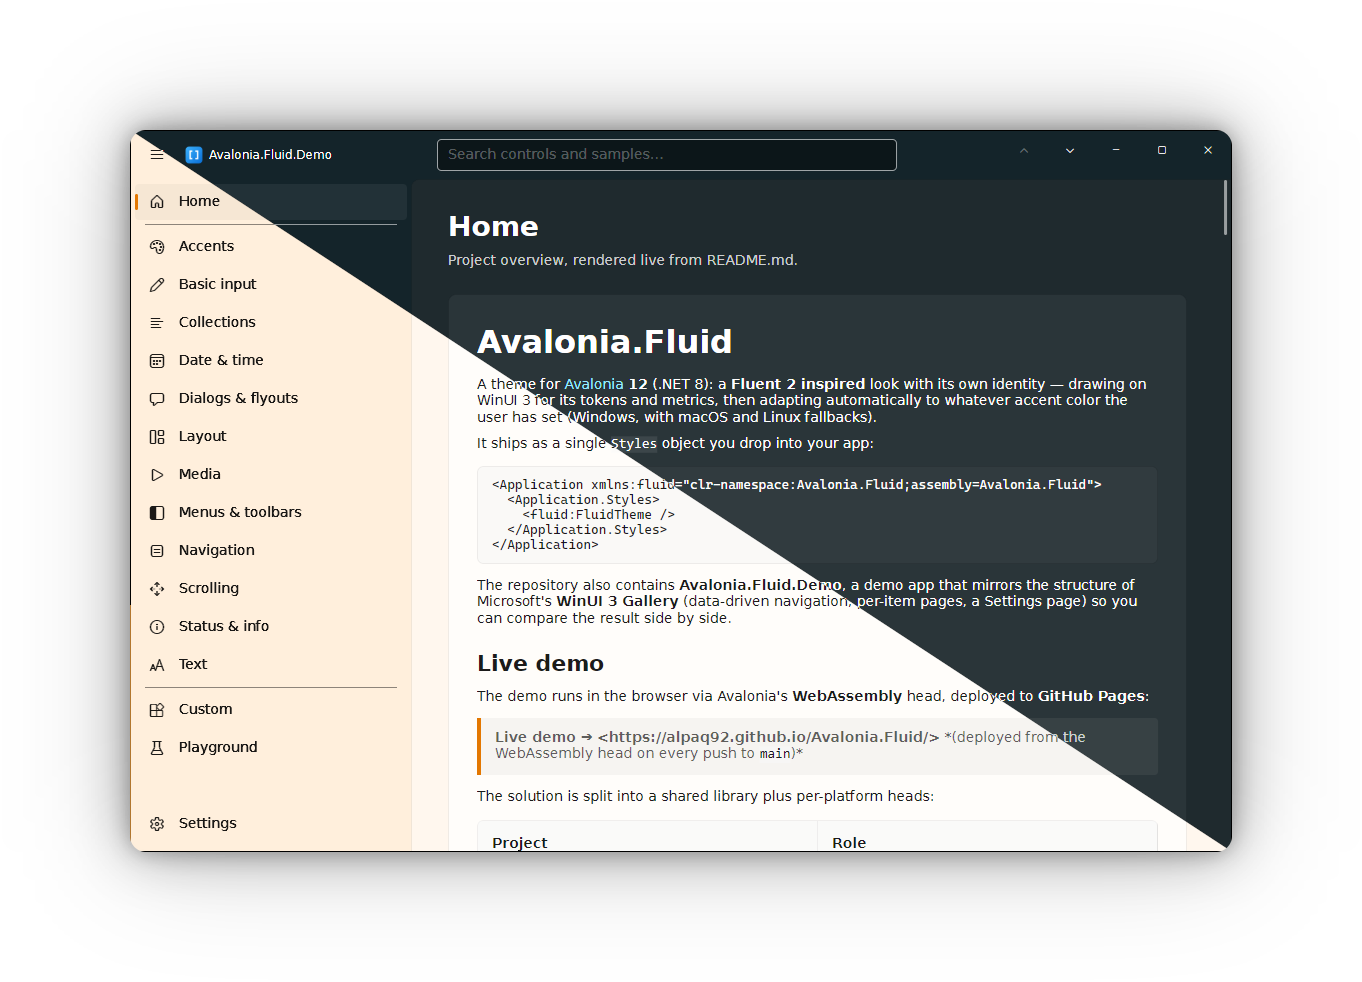
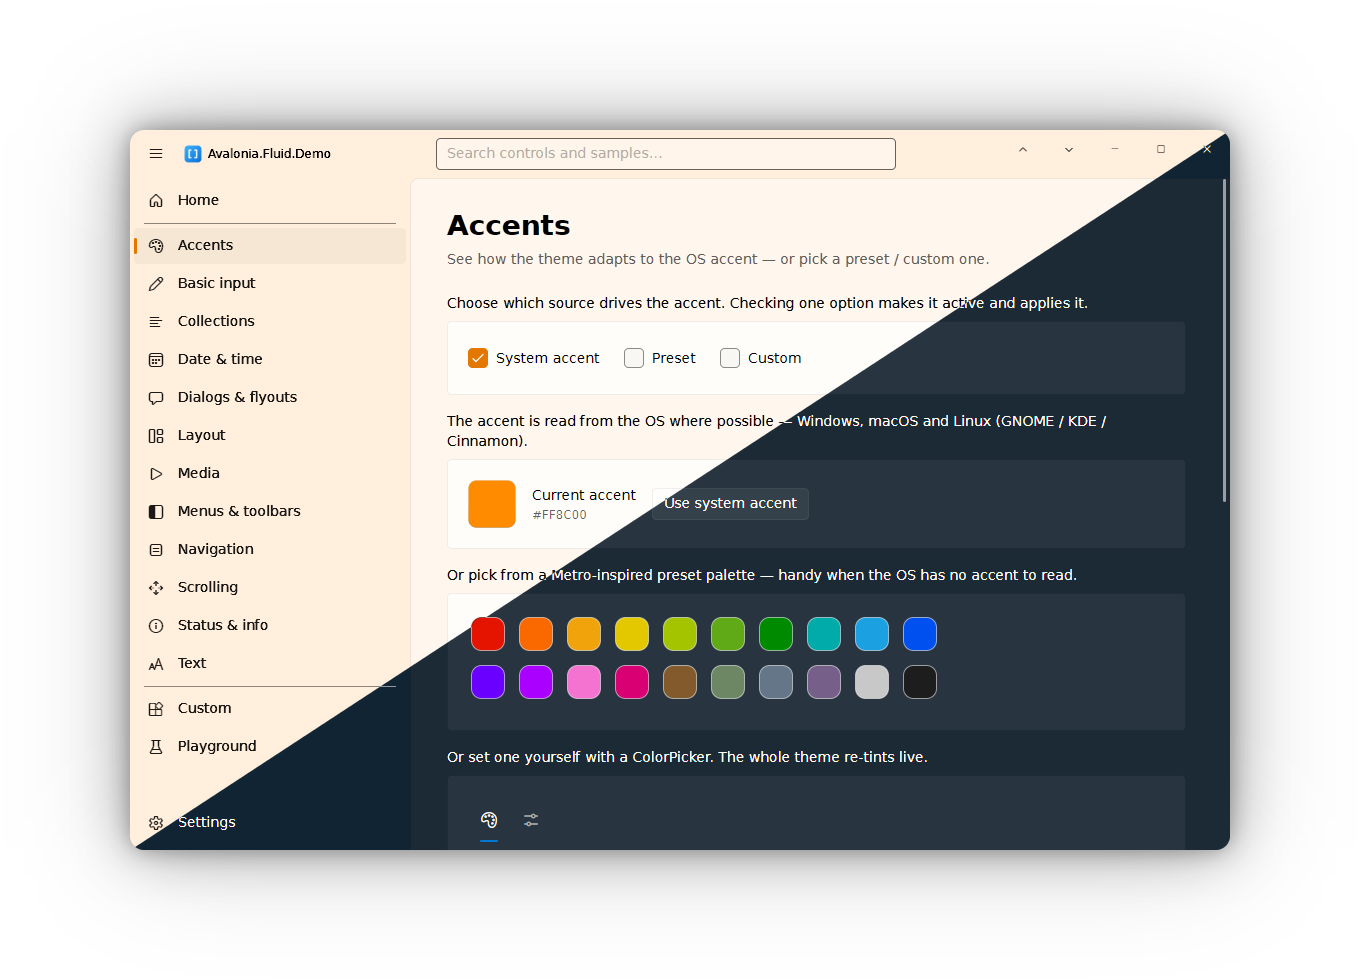
docs: refresh screenshot to the Accents page
Rebuild screenshot.png from fresh light/dark captures of the Accents page: a clean
diagonal light-over-dark split, the OS edge outline trimmed off, smooth 6x-supersampled
rounded corners (no jaggies), a soft ambient mist on a transparent canvas, kept
truecolor so the edges stay smooth. Update the README/NuGet alt text accordingly. Raw
shot-*.png sources are git-ignored.

diff --git a/README.md b/README.md
@@ -13,7 +13,7 @@ A theme for [Avalonia](https://avaloniaui.net/) **12** (.NET 8): a **Fluent 2 in
 its own identity — drawing on WinUI 3 for its tokens and metrics, then adapting automatically to
 whatever accent color the user has set (Windows, with macOS and Linux fallbacks).
 
-![Avalonia.Fluid — the demo's Home page, split diagonally between the light and dark themes](https://raw.githubusercontent.com/Alpaq92/Avalonia.Fluid/main/screenshot.png)
+![Avalonia.Fluid — the demo's Accents page, split diagonally between the light and dark themes](https://raw.githubusercontent.com/Alpaq92/Avalonia.Fluid/main/screenshot.png)
 
 It ships as a single `Styles` object you drop into your app:
 

diff --git a/nuget-readme.md b/nuget-readme.md
@@ -7,7 +7,7 @@
 
 A **Fluent 2 / WinUI 3-inspired theme for [Avalonia](https://github.com/AvaloniaUI/Avalonia)** with its own identity, adapting to your system accent color. Built on Avalonia's `FluentTheme` with ported Fluent 2 design tokens — lit-edge elevation, card surfaces, a Mica-ready window look, and a Fluent-tuned set of control themes.
 
-![Avalonia.Fluid demo — the Home page split diagonally between the light and dark themes](https://raw.githubusercontent.com/Alpaq92/Avalonia.Fluid/main/screenshot.png)
+![Avalonia.Fluid demo — the Accents page split diagonally between the light and dark themes](https://raw.githubusercontent.com/Alpaq92/Avalonia.Fluid/main/screenshot.png)
 
 ## Install
 